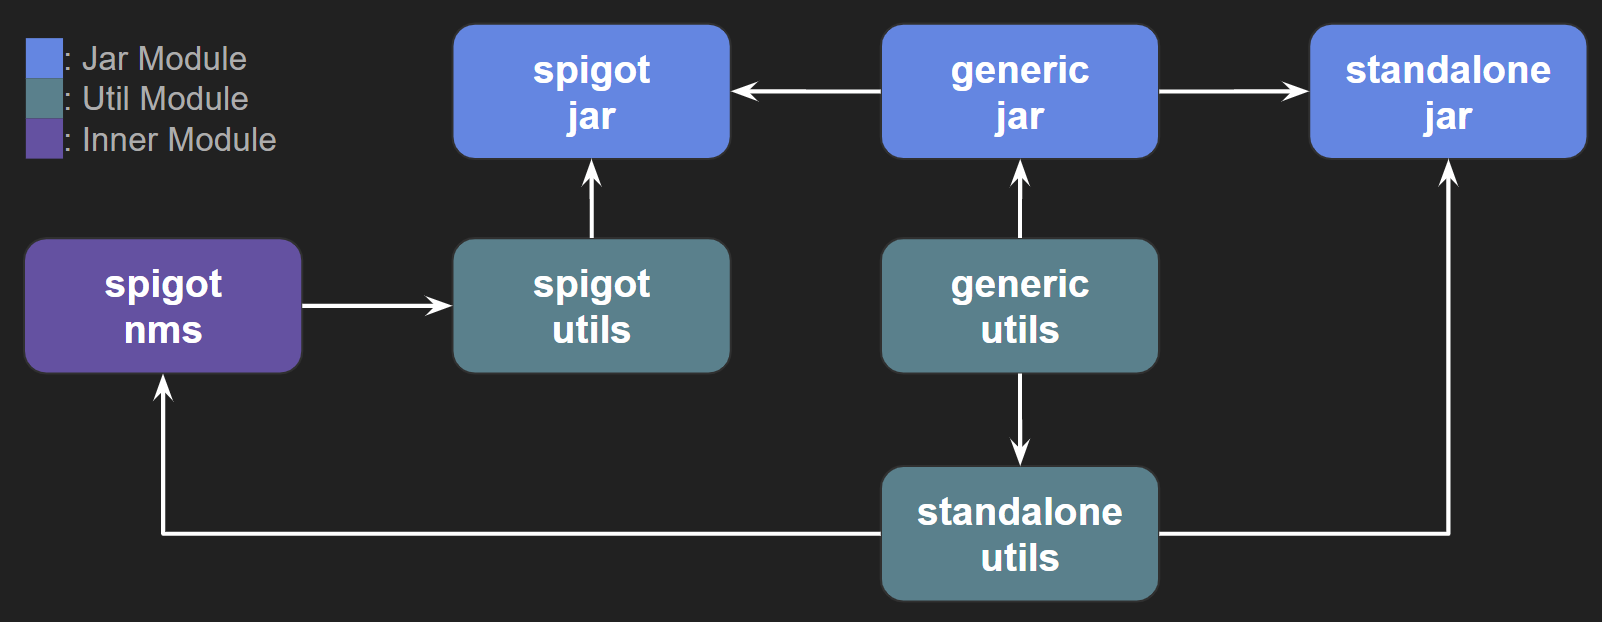
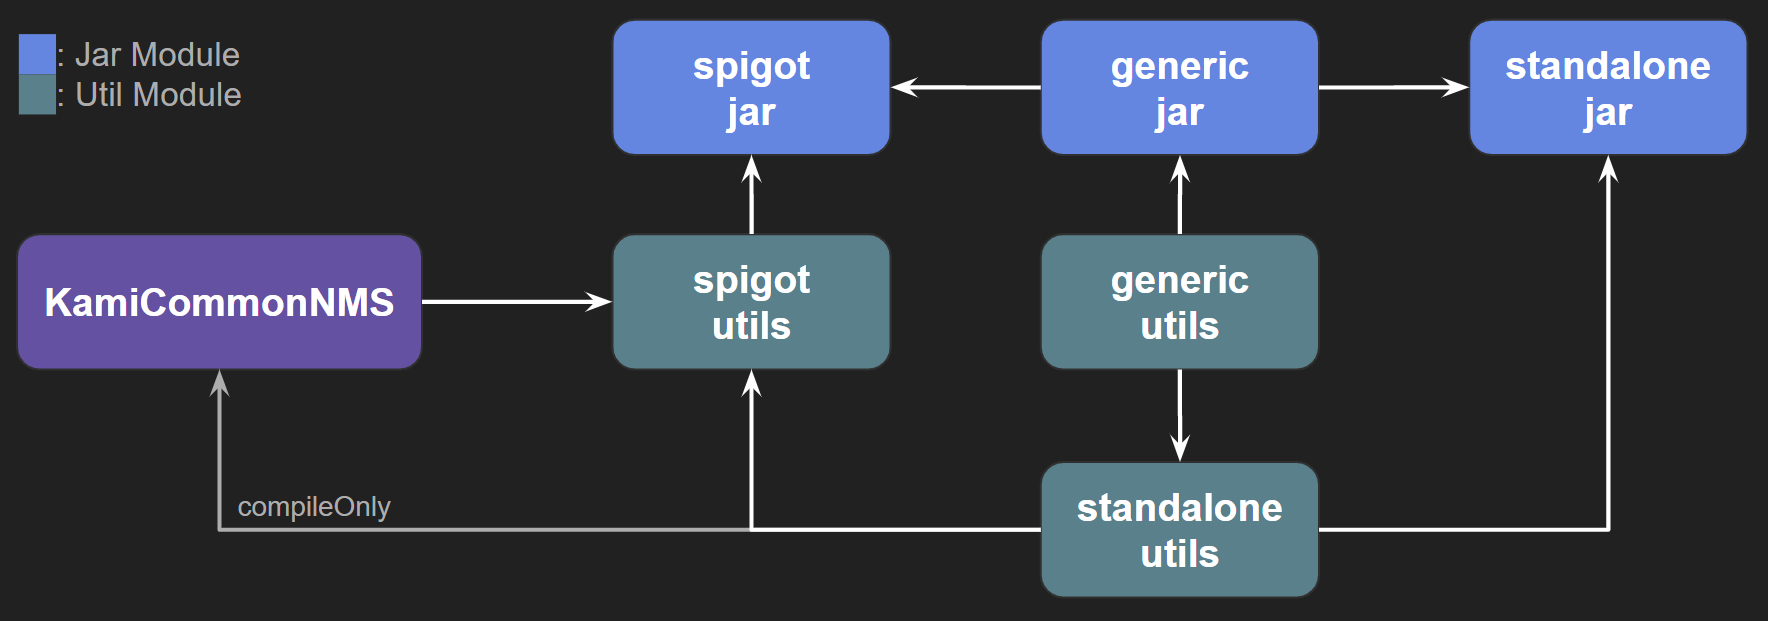
3.6.0.0-SNAPSHOT -update structure photo + doc

Changed region(s): [[0.0, 0.0306, 0.9988, 0.9791], [0.0, 0.0306, 0.1873, 0.2754]]

diff --git a/STRUCTURE.md b/STRUCTURE.md
@@ -2,6 +2,7 @@
 
 # Module Structure
 - Modules Available as Dependencies: [spigot-jar](#spigot-jar), [spigot-utils](#spigot-utils), [standalone-jar](#standalone-jar), [standalone-utils](#standalone-utils), [generic-jar](#generic-jar), [generic-utils](#generic-utils)
+- NMS modularity has been extracted into a separate project to reduce build times for quick changes. See [KamiCommonNMS](https://github.com/Jake-Moore/KamiCommonNMS) for that project
 
 ## Module Hierarchy
 ![ScreenShot](/docs/screenshots/structure.png)
@@ -12,20 +13,31 @@
 - Contains ALL of
   - [spigot-utils](#spigot-utils)
     - Which contains [standalone-utils](#standalone-utils)
-    - Which contains [spigot-nms](#spigot-nms)
+    - Which contains [KamiCommonNMS](https://github.com/Jake-Moore/KamiCommonNMS)
   - [generic-jar](#generic-jar)
 - 📄 Shaded Utilities
-  - com.google.code.gson:gson, org.apache.commons:commons-text [via [spigot-utils](#spigot-utils)]
-  - org.json:json, org.yaml:snakeyaml [via [standalone-utils](#standalone-utils)]
-  - [com.github.cryptomorin:XSeries](https://github.com/CryptoMorin/XSeries), [de.tr7zw:item-nbt-api](https://github.com/tr7zw/Item-NBT-API) [via [spigot-nms](#spigot-nms)]
-  - com.zaxxer:HikariCP, com.mysql:mysql-connector-j, redis.clients:jedis, com.rabbitmq:amqp-client [via [generic-jar](#generic-jar)]
+  - From [spigot-utils](#spigot-utils)
+    - com.google.code.gson:gson
+    - org.apache.commons:commons-text
+  - From [standalone-utils](#standalone-utils)
+    - org.yaml:snakeyaml
+    - org.json:json
+  - From [KamiCommonNMS](https://github.com/Jake-Moore/KamiCommonNMS)
+    - [com.github.cryptomorin:XSeries](https://github.com/CryptoMorin/XSeries)
+    - [de.tr7zw:item-nbt-api](https://github.com/tr7zw/Item-NBT-API)
+    - [com.github.fierioziy.particlenativeapi:ParticleNativeAPI](https://github.com/Fierioziy/ParticleNativeAPI)
+  - From [generic-jar](#generic-jar)
+    - com.zaxxer:HikariCP
+    - com.mysql:mysql-connector-j
+    - redis.clients:jedis
+    - com.rabbitmq:amqp-client
 - (⭐) Should **NOT** be shaded ❌
   - <span style="text-decoration:underline;">should be added to the server as a plugin</span>
 
 ### [spigot-utils](./spigot-utils)
 - A **developer** jar file containing *some* of the standalone spigot APIs in KamiCommon
 - Contains ALL:
-  - [spigot-nms](#spigot-nms)
+  - [KamiCommonNMS](https://github.com/Jake-Moore/KamiCommonNMS)
   - [standalone-utils](#standalone-utils)
 - Does not contain the shaded utilities the spigot-jar has
 - Meant for developers who want some of the small/frequently used classes, without loading all of the shaded utilities
@@ -33,21 +45,9 @@
   - org.json:json
   - com.google.code.gson:gson
   - org.apache.commons:commons-text
-  - [com.github.cryptomorin:XSeries](https://github.com/CryptoMorin/XSeries) [via [spigot-nms](#spigot-nms)]
   - org.json:json, org.yaml:snakeyaml [via [standalone-utils](#standalone-utils)]
 - (⭐) **CAN** be shaded
   - classes in this module may use the spigot-api, but do not require a plugin to back them
-
-### [spigot-nms](./spigot-nms)
-- A parent module responsible for nms utilities & implementations.
-- Wrapper classes (available in [spigot-jar](#spigot-jar)) should be used instead!
-- 📄 Shaded Utilities
-  - [de.tr7zw:item-nbt-api](https://github.com/tr7zw/Item-NBT-API)
-  - [com.github.cryptomorin:XSeries](https://github.com/CryptoMorin/XSeries)
-  - org.json:json, org.yaml:snakeyaml [via [standalone-utils](#standalone-utils)]
-- ❌ Not Available
-    - This module is not available on its own
-    - The quickest way to use this module is via [spigot-utils](#spigot-utils)
 
 ## Standalone Development
 ### [standalone-jar](./standalone-jar)
